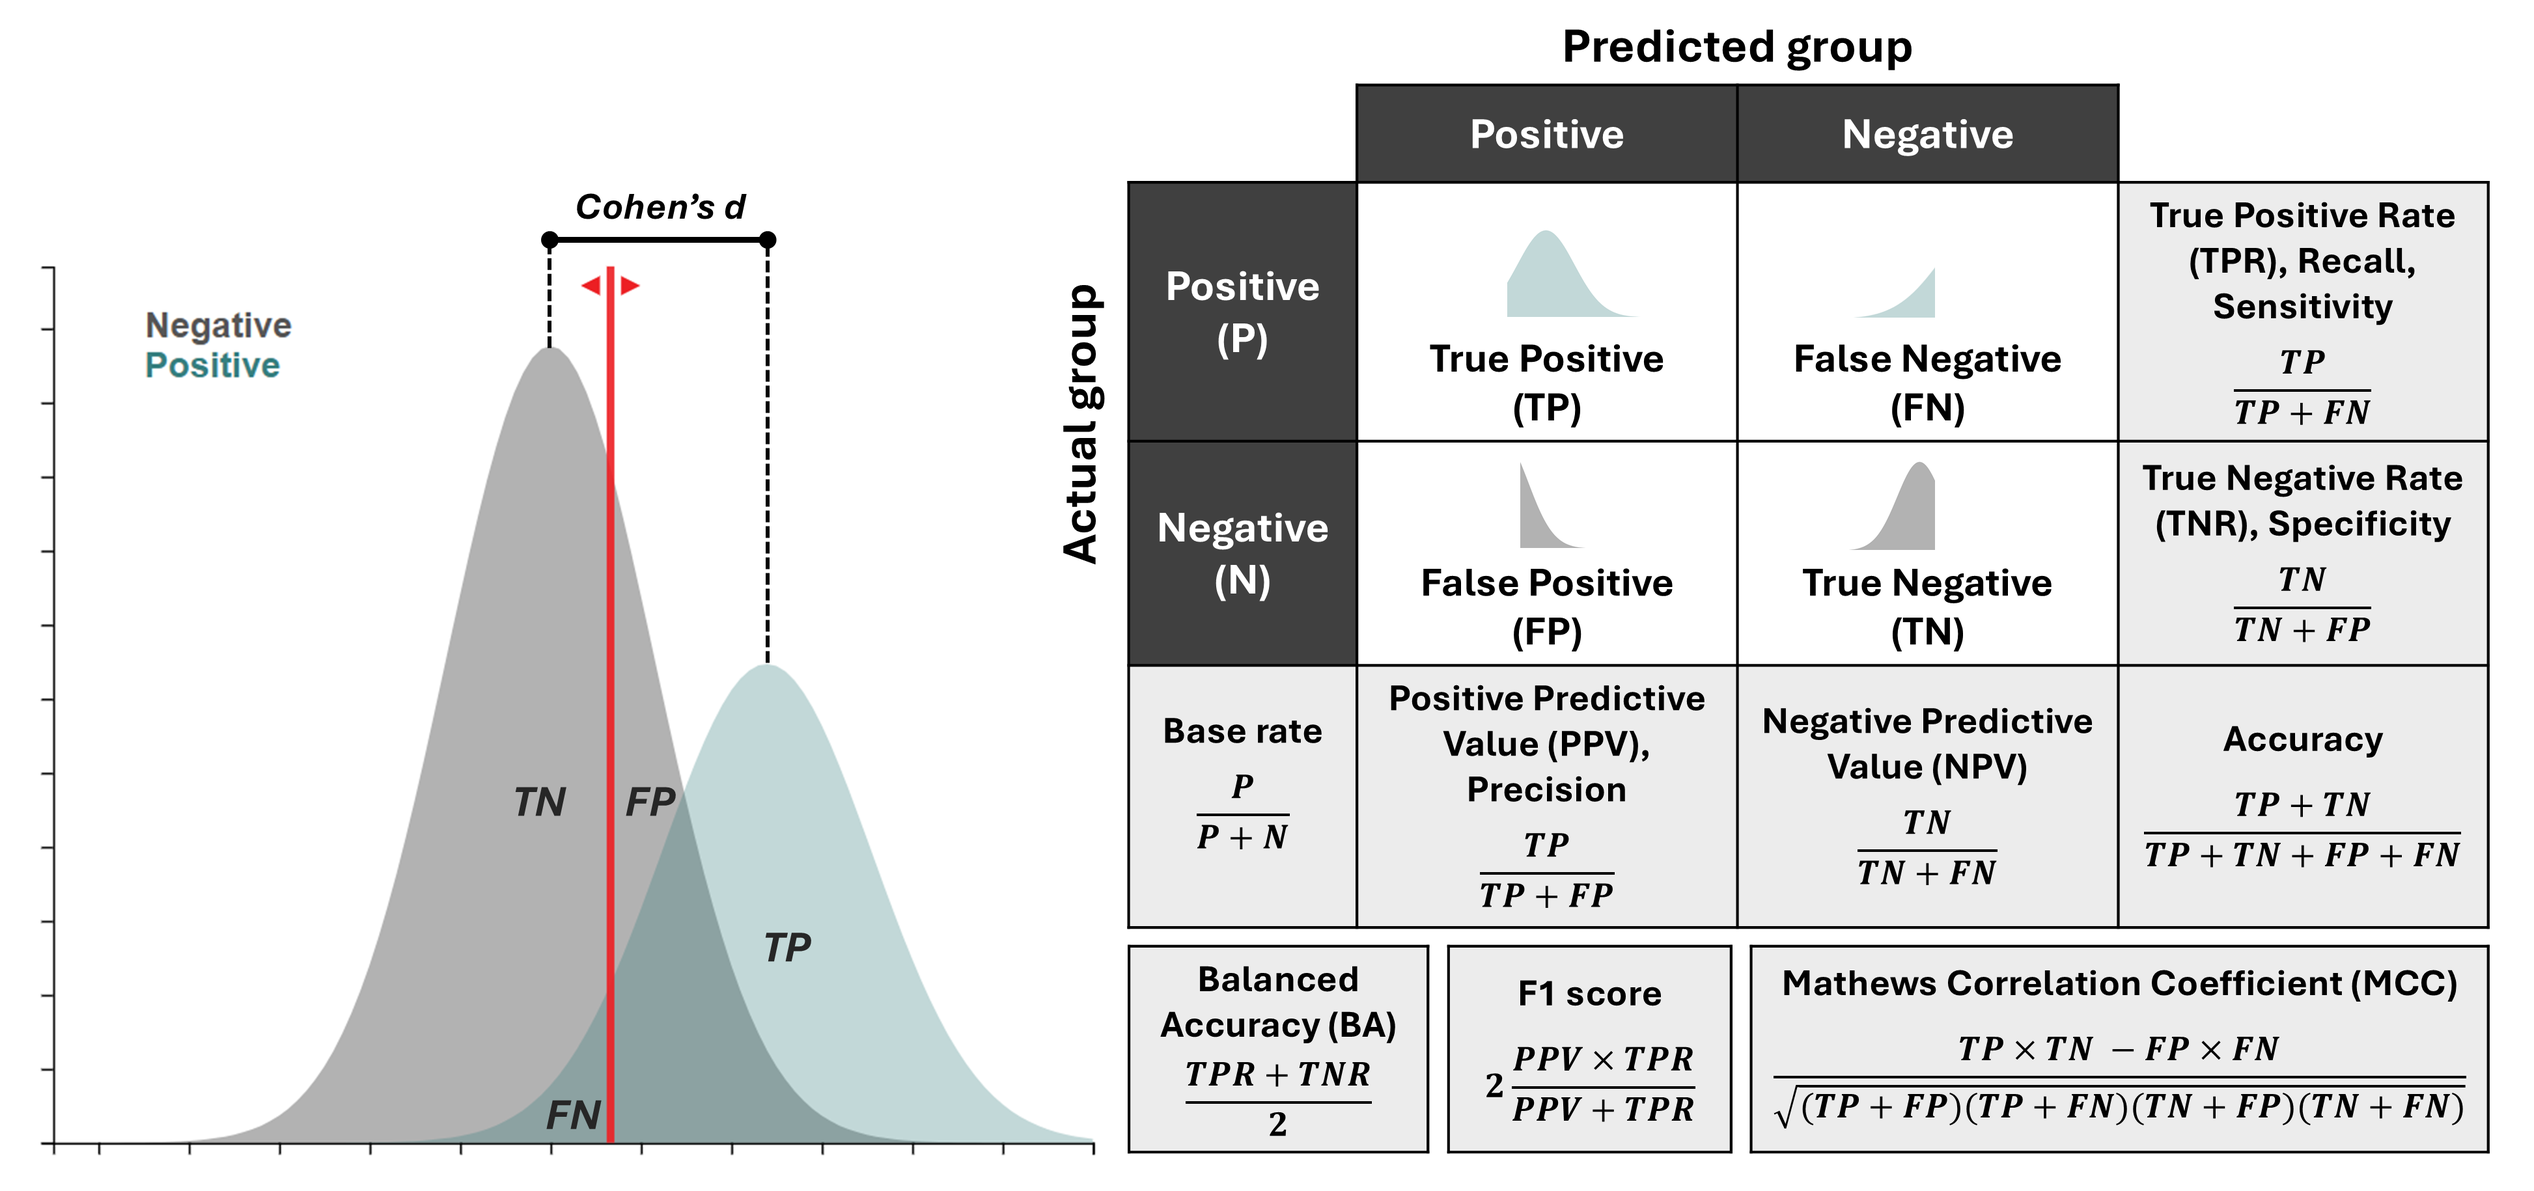
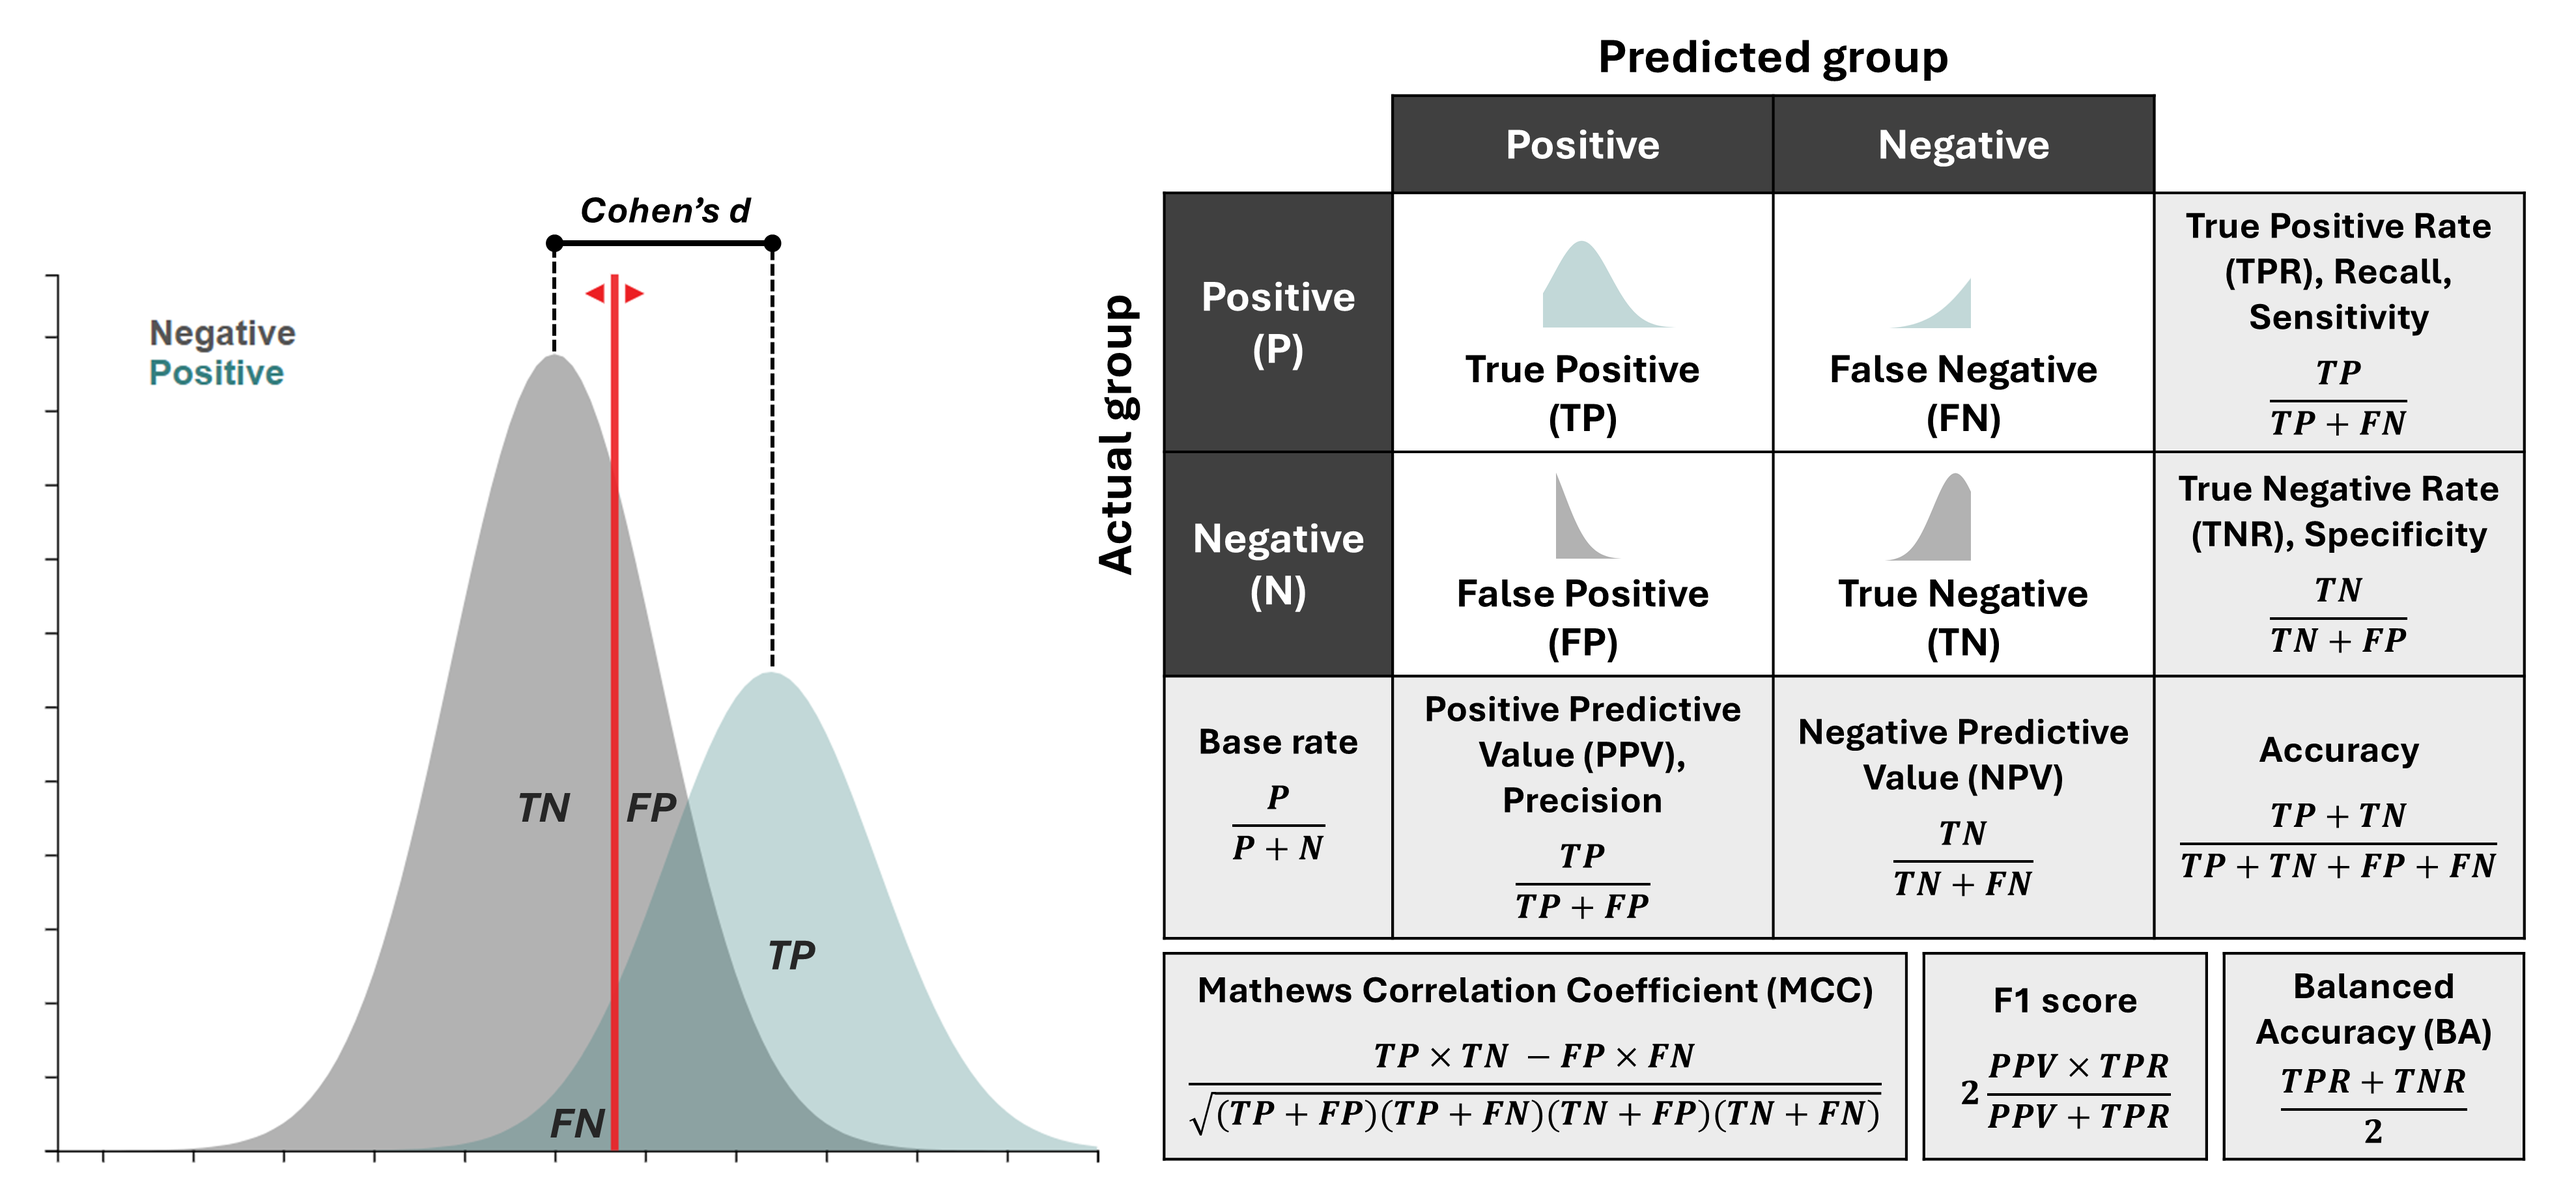
minor updates to figures

diff --git a/index.html b/index.html
@@ -124,7 +124,7 @@
                 <div class="slider-container">
                     <!-- Cohen's d and other metrics -->
                     <div>
-                        <input type="range" id="difference-slider" min="0" max="5" step="0.01" value="1.0" style="width: 100%; margin-bottom: 10px;">
+                        <input type="range" id="difference-slider" min="0" max="5" step="0.01" value="1.34" style="width: 100%; margin-bottom: 10px;">
                         
                         <!-- Continuous Metrics -->
                         <div style="display: flex; flex-direction: column; gap: 0px; margin-bottom: 30px;">
@@ -137,8 +137,8 @@
                             <!-- Cohen's d -->
                             <div style="display: flex; align-items: center; justify-content: space-between;">
                                 <span class="slider-label" data-tooltip="Standardized mean difference between groups">Cohen's d</span>
-                                <input type="number" id="true-difference-number-bin" class="metrics-input" min="0" max="5" step="0.01" value="1">
-                                <input type="number" id="observed-difference-number-bin" class="metrics-input" min="0" max="5" step="0.01" value="1" readonly>
+                                <input type="number" id="true-difference-number-bin" class="metrics-input" min="0" max="5" step="0.01" value="1.34">
+                                <input type="number" id="observed-difference-number-bin" class="metrics-input" min="0" max="5" step="0.01" value="1.34" readonly>
                             </div>
 
                             <!-- Cohen's U3 -->
@@ -204,10 +204,10 @@
 
                     <!-- Base rate -->
                     <div>
-                        <input type="range" id="base-rate-slider" min="0.1" max="99.9" step="0.1" value="50">
+                        <input type="range" id="base-rate-slider" min="0.1" max="99.9" step="0.1" value="45">
                         <div style="display: flex; justify-content: space-between; align-items: center; margin-top: 5px;">
                             <span class="slider-label" data-tooltip="Prevalence of group 2 in a population">Base rate, \(\phi\) (%)</span>
-                            <input type="number" id="base-rate-number" class="metrics-input permanent-highlight" min="0.1" max="99.9" step="0.1" value="50">
+                            <input type="number" id="base-rate-number" class="metrics-input permanent-highlight" min="0.1" max="99.9" step="0.1" value="45">
                         </div>
                     </div>
                 </div>
@@ -530,13 +530,13 @@
                         
                         <!-- Point-biserial r -->
                         <div style="display: flex; align-items: center; justify-content: space-between;">
-                            <span class="slider-label" data-tooltip="Point-biserial r: correlation between a continuous variable and binary group membership">Point-biserial r</span>
+                            <span class="slider-label" data-tooltip="Point-biserial r: correlation between a continuous variable and binary group membership">Point-biserial r<sub>pb</sub></span>
                             <input type="number" id="true-pb-r-cont" class="metrics-input" min="0" max="0.93" step="0.01" value="0.00" readonly>
                             <input type="number" id="observed-pb-r-cont" class="metrics-input" min="0" max="0.93" step="0.01" value="0.00" readonly>
                         </div>
                         
                         <div style="display: flex; align-items: center; justify-content: space-between;">
-                            <span class="slider-label" data-tooltip="Correlation between ranks and binary group membership">Rank-biserial r</span>
+                            <span class="slider-label" data-tooltip="Correlation between ranks and binary group membership">Rank-biserial r<sub>rb</sub></span>
                             <input type="number" id="true-rank-biserial-cont" class="metrics-input" min="-1" max="1" step="0.01" value="0.00" readonly>
                             <input type="number" id="observed-rank-biserial-cont" class="metrics-input" min="-1" max="1" step="0.01" value="0.00" readonly>
                         </div>

diff --git a/get-started.html b/get-started.html
@@ -205,7 +205,7 @@
         <p>These integrals are computed using trapezoidal numerical integration.</p>
         
         <h3 id="dca-analysis">Decision Curve Analysis (DCA)</h3>
-        <p>Decision Curve Analysis (<a href="https://pubmed.ncbi.nlm.nih.gov/17099194/" target="_blank">Vickers & Elkin, 2006</a>) evaluates the utility of a predictive model or a single predictor by plotting net benefit across different threshold probabilities. Unlike ROC and PR curves that focus on discrimination, DCA incorporates the relative costs of false positives and false negatives, helping determine whether using a prediction model to guide decisions provides more benefit than simple strategies.</p>
+        <p>Decision Curve Analysis (<a href="https://pubmed.ncbi.nlm.nih.gov/17099194/" target="_blank">Vickers & Elkin, 2006</a>) evaluates the clinical utility of a predictive model or a single predictor by explicitly balancing the costs of false positives against the benefits of true positives.</p>
         
         <div id="dca-diagram" style="float: right; margin: 0 0 20px 20px;">
             <img src="images/dca.png" alt="Decision Curve Analysis example showing net benefit curves and shaded areas representing different strategies" class="screenshot" style="max-width: 400px; width: 400px;">
@@ -222,7 +222,7 @@
         <div style="text-align: center; margin: 15px 0;">
             \[NB = \frac{TP}{N_{total}} - \frac{FP}{N_{total}} \times \frac{p_t}{1-p_t}\]
         </div>
-        <p>Where N<sub>total</sub> is the total sample size, and p<sub>t</sub> is the threshold probability, representing the odds at which one would be willing to accept an intervention. In practical terms, p<sub>t</sub> reflects how many unnecessary interventions one is willing to accept to prevent one adverse outcome. The ratio p<sub>t</sub>/(1-p<sub>t</sub>) in the net benefit formula captures the relative weighting of false positives compared to true positives. p<sub>t</sub> itself can be calculated as:</p>
+        <p>Where N<sub>total</sub> is the total sample size, and p<sub>t</sub> is the threshold probability — the minimum predicted probability at which you would decide to intervene (e.g., diagnose, treat, or refer for further assessment). For example, if p<sub>t</sub> = 0.10, you would intervene for anyone with a predicted risk ≥ 10%. In practical terms, p<sub>t</sub> represents the trade-off between benefits and harms: for every 1/(1-p<sub>t</sub>) - 1 unnecessary interventions you're willing to accept to prevent one adverse outcome. The ratio p<sub>t</sub>/(1-p<sub>t</sub>) in the net benefit formula captures this relative weighting of false positives compared to true positives. p<sub>t</sub> itself can be calculated as:</p>
 
         <div style="text-align: center; margin: 15px 0;">
             \[p_t = \frac{C_{FP}}{C_{FP} + C_{FN}}\]
